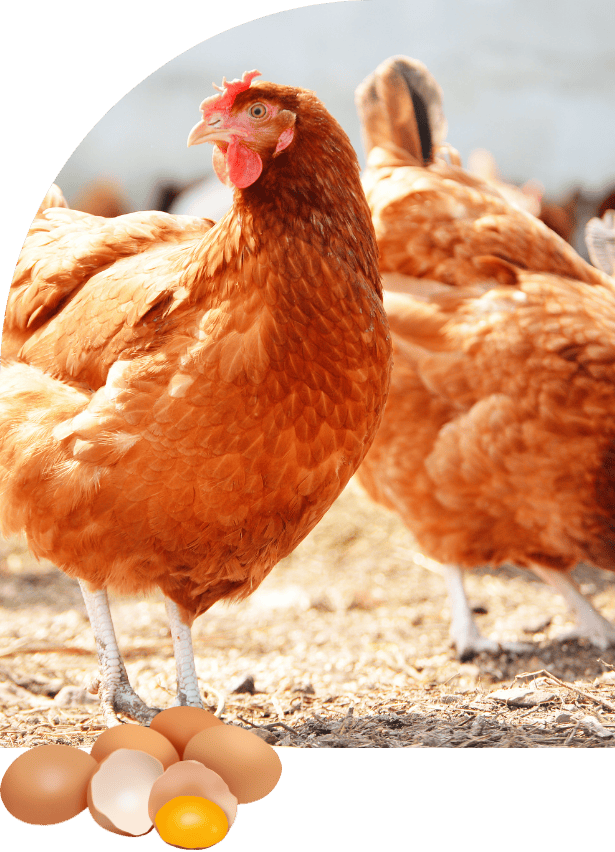
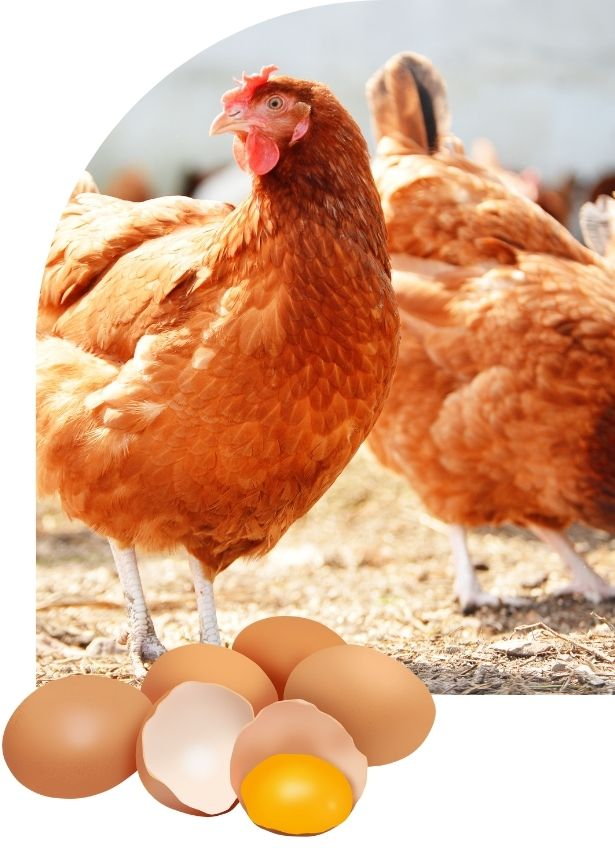
webp

diff --git a/index.html b/index.html
@@ -272,7 +272,12 @@
             <div class="row align-center">
                 <div class="col-xl-6 col-lg-5">
                     <div class="about-style-one-thumb">
-                        <img src="assets/img/about/1.jpg" alt="Image Not Found">
+                        <picture>
+                            <!-- WebP format -->
+                            <source srcset="assets/img/about/1.webp" type="image/webp">
+                            <!-- JPEG format fallback -->
+                            <img src="assets/img/about/1.jpg" alt="Best Village Eggs in Sri Lanka">
+                          </picture>                          
                         <div class="animation-shape">
                             <img src="assets/img/illustration/1.png" alt="Image Not Found">
                         </div>
